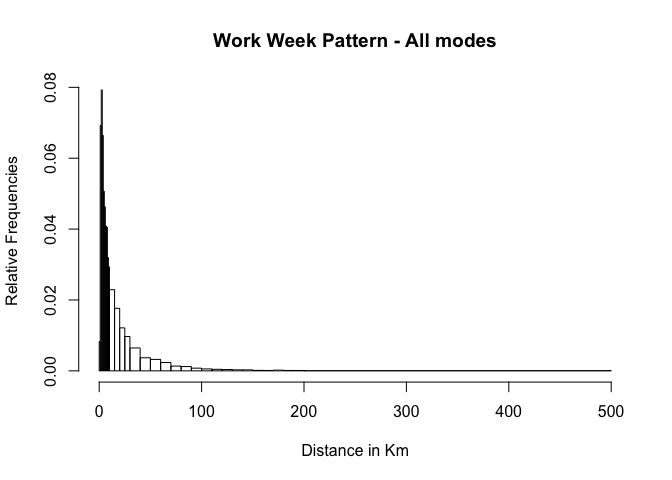
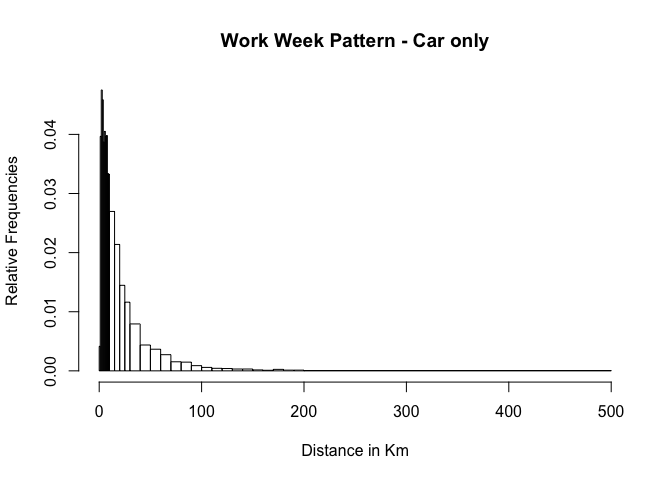
added descriptive stats

diff --git a/doc/AlbatrossReport.md b/doc/AlbatrossReport.md
@@ -29,33 +29,41 @@ Summary
 
 ![](AlbatrossReport_files/figure-markdown_github-ascii_identifiers/unnamed-chunk-4-1.png)
 
-#### 3. How far do people travel to work?
+#### 4. How far do people travel to work?
 
 ![](AlbatrossReport_files/figure-markdown_github-ascii_identifiers/unnamed-chunk-6-1.png)
 
-#### 4. How does the travel pattern look on weekends?
+#### 5. How does the travel pattern look on weekends?
 
 ![](AlbatrossReport_files/figure-markdown_github-ascii_identifiers/unnamed-chunk-7-1.png)
 
-#### 5. How does the ((work)) travel pattern look on weekdays ?
+#### 6. How does the ((work)) travel pattern look on weekdays ?
 
 ![](AlbatrossReport_files/figure-markdown_github-ascii_identifiers/unnamed-chunk-8-1.png)
 
-#### 6. How does travel pattern differ by gender?
-
-![](AlbatrossReport_files/figure-markdown_github-ascii_identifiers/unnamed-chunk-9-1.png)
-
+<!-- #### 6. How does travel pattern differ by gender? -->
+<!-- ```{r} -->
+<!-- ggplot(data=monCleaned_Distance[monCleaned_Distance$Atype=="Work" & monCleaned_Distance$Day <=5,], aes(x=TravDist, fill=factor(Gend), colour=factor(Gend))) +  -->
+<!--   geom_line(stat = "density")+ -->
+<!--   #geom_histogram()+ -->
+<!--  # geom_freqpoly(data=monCleaned_Distance[monCleaned_Distance$Atype=="Work" & monCleaned_Distance$Day <=5 & monCleaned_Distance$Gend==0,], binwidth = 5) + -->
+<!--   #geom_line(data=monCleaned_Distance[monCleaned_Distance$Atype=="Work" & monCleaned_Distance$Day <=5 & monCleaned_Distance$Gend==0,],stat = "density", colour="blue", alpha=0.2) + -->
+<!--  # geom_line(data=monCleaned_Distance[monCleaned_Distance$Atype=="Work" & monCleaned_Distance$Day <=5 & monCleaned_Distance$Gend==1,],stat = "density", colour="red", alpha=0.2) + -->
+<!--   #geom_density(colour=NA, fill="blue", alpha=0.2)+  -->
+<!--   facet_wrap(~Mode, ncol = 2, scales = "free_y") +  -->
+<!--   xlab("Distance in km") +  xlim(0,200)  -->
+<!-- ``` -->
 #### 7. Extracting work pattern on weekdays
 
 For control over what distance ranges are extracted from the MON data, we define our own distance bins.
 
-![](AlbatrossReport_files/figure-markdown_github-ascii_identifiers/unnamed-chunk-10-1.png)
+![](AlbatrossReport_files/figure-markdown_github-ascii_identifiers/unnamed-chunk-9-1.png)
 
-#### 7. Extracting (car) work pattern on weekdays
+#### 8. Extracting (car) work pattern on weekdays
 
 For control over what distance ranges are extracted from the MON data, we define our own distance bins.
 
-![](AlbatrossReport_files/figure-markdown_github-ascii_identifiers/unnamed-chunk-11-1.png)
+![](AlbatrossReport_files/figure-markdown_github-ascii_identifiers/unnamed-chunk-10-1.png)
 
 |  bin\_low|  bin\_high|   carsOnly|   allModes|
 |---------:|----------:|----------:|----------:|
@@ -91,3 +99,50 @@ For control over what distance ranges are extracted from the MON data, we define
 |       180|        190|  0.0011879|  0.0011806|
 |       190|        200|  0.0011879|  0.0010232|
 |       200|        500|  0.0118793|  0.0096812|
+
+#### 9. Extracting work pattern on weekends
+
+For control over what distance ranges are extracted from the MON data, we define our own distance bins.
+
+![](AlbatrossReport_files/figure-markdown_github-ascii_identifiers/unnamed-chunk-11-1.png)
+
+#### 10. Extracting (car) work pattern on weekends
+
+For control over what distance ranges are extracted from the MON data, we define our own distance bins.
+
+![](AlbatrossReport_files/figure-markdown_github-ascii_identifiers/unnamed-chunk-12-1.png)
+
+|  bin\_low|  bin\_high|   carsOnly|   allModes|
+|---------:|----------:|----------:|----------:|
+|         0|          1|  0.0129443|  0.0225864|
+|         1|          2|  0.0782141|  0.1224732|
+|         2|          3|  0.0870996|  0.1074875|
+|         3|          4|  0.0772269|  0.0794566|
+|         4|          5|  0.0627468|  0.0635006|
+|         5|          6|  0.0529838|  0.0513719|
+|         6|          7|  0.0567135|  0.0470056|
+|         7|          8|  0.0473892|  0.0391893|
+|         8|          9|  0.0346643|  0.0308339|
+|         9|         10|  0.0344449|  0.0290550|
+|        10|         15|  0.1173760|  0.1032828|
+|        15|         20|  0.0692190|  0.0539054|
+|        20|         25|  0.0425625|  0.0384346|
+|        25|         30|  0.0353225|  0.0295402|
+|        30|         40|  0.0372971|  0.0330440|
+|        40|         50|  0.0262176|  0.0239879|
+|        50|         60|  0.0210619|  0.0190286|
+|        60|         70|  0.0200746|  0.0176271|
+|        70|         80|  0.0127249|  0.0136920|
+|        80|         90|  0.0133831|  0.0114819|
+|        90|        100|  0.0084467|  0.0090022|
+|       100|        110|  0.0063624|  0.0070077|
+|       110|        120|  0.0062527|  0.0070616|
+|       120|        130|  0.0049364|  0.0043663|
+|       130|        140|  0.0048267|  0.0051749|
+|       140|        150|  0.0030715|  0.0026953|
+|       150|        160|  0.0036200|  0.0038273|
+|       160|        170|  0.0014261|  0.0025336|
+|       170|        180|  0.0012067|  0.0012937|
+|       180|        190|  0.0037297|  0.0032343|
+|       190|        200|  0.0025230|  0.0021023|
+|       200|        500|  0.0139315|  0.0147162|
